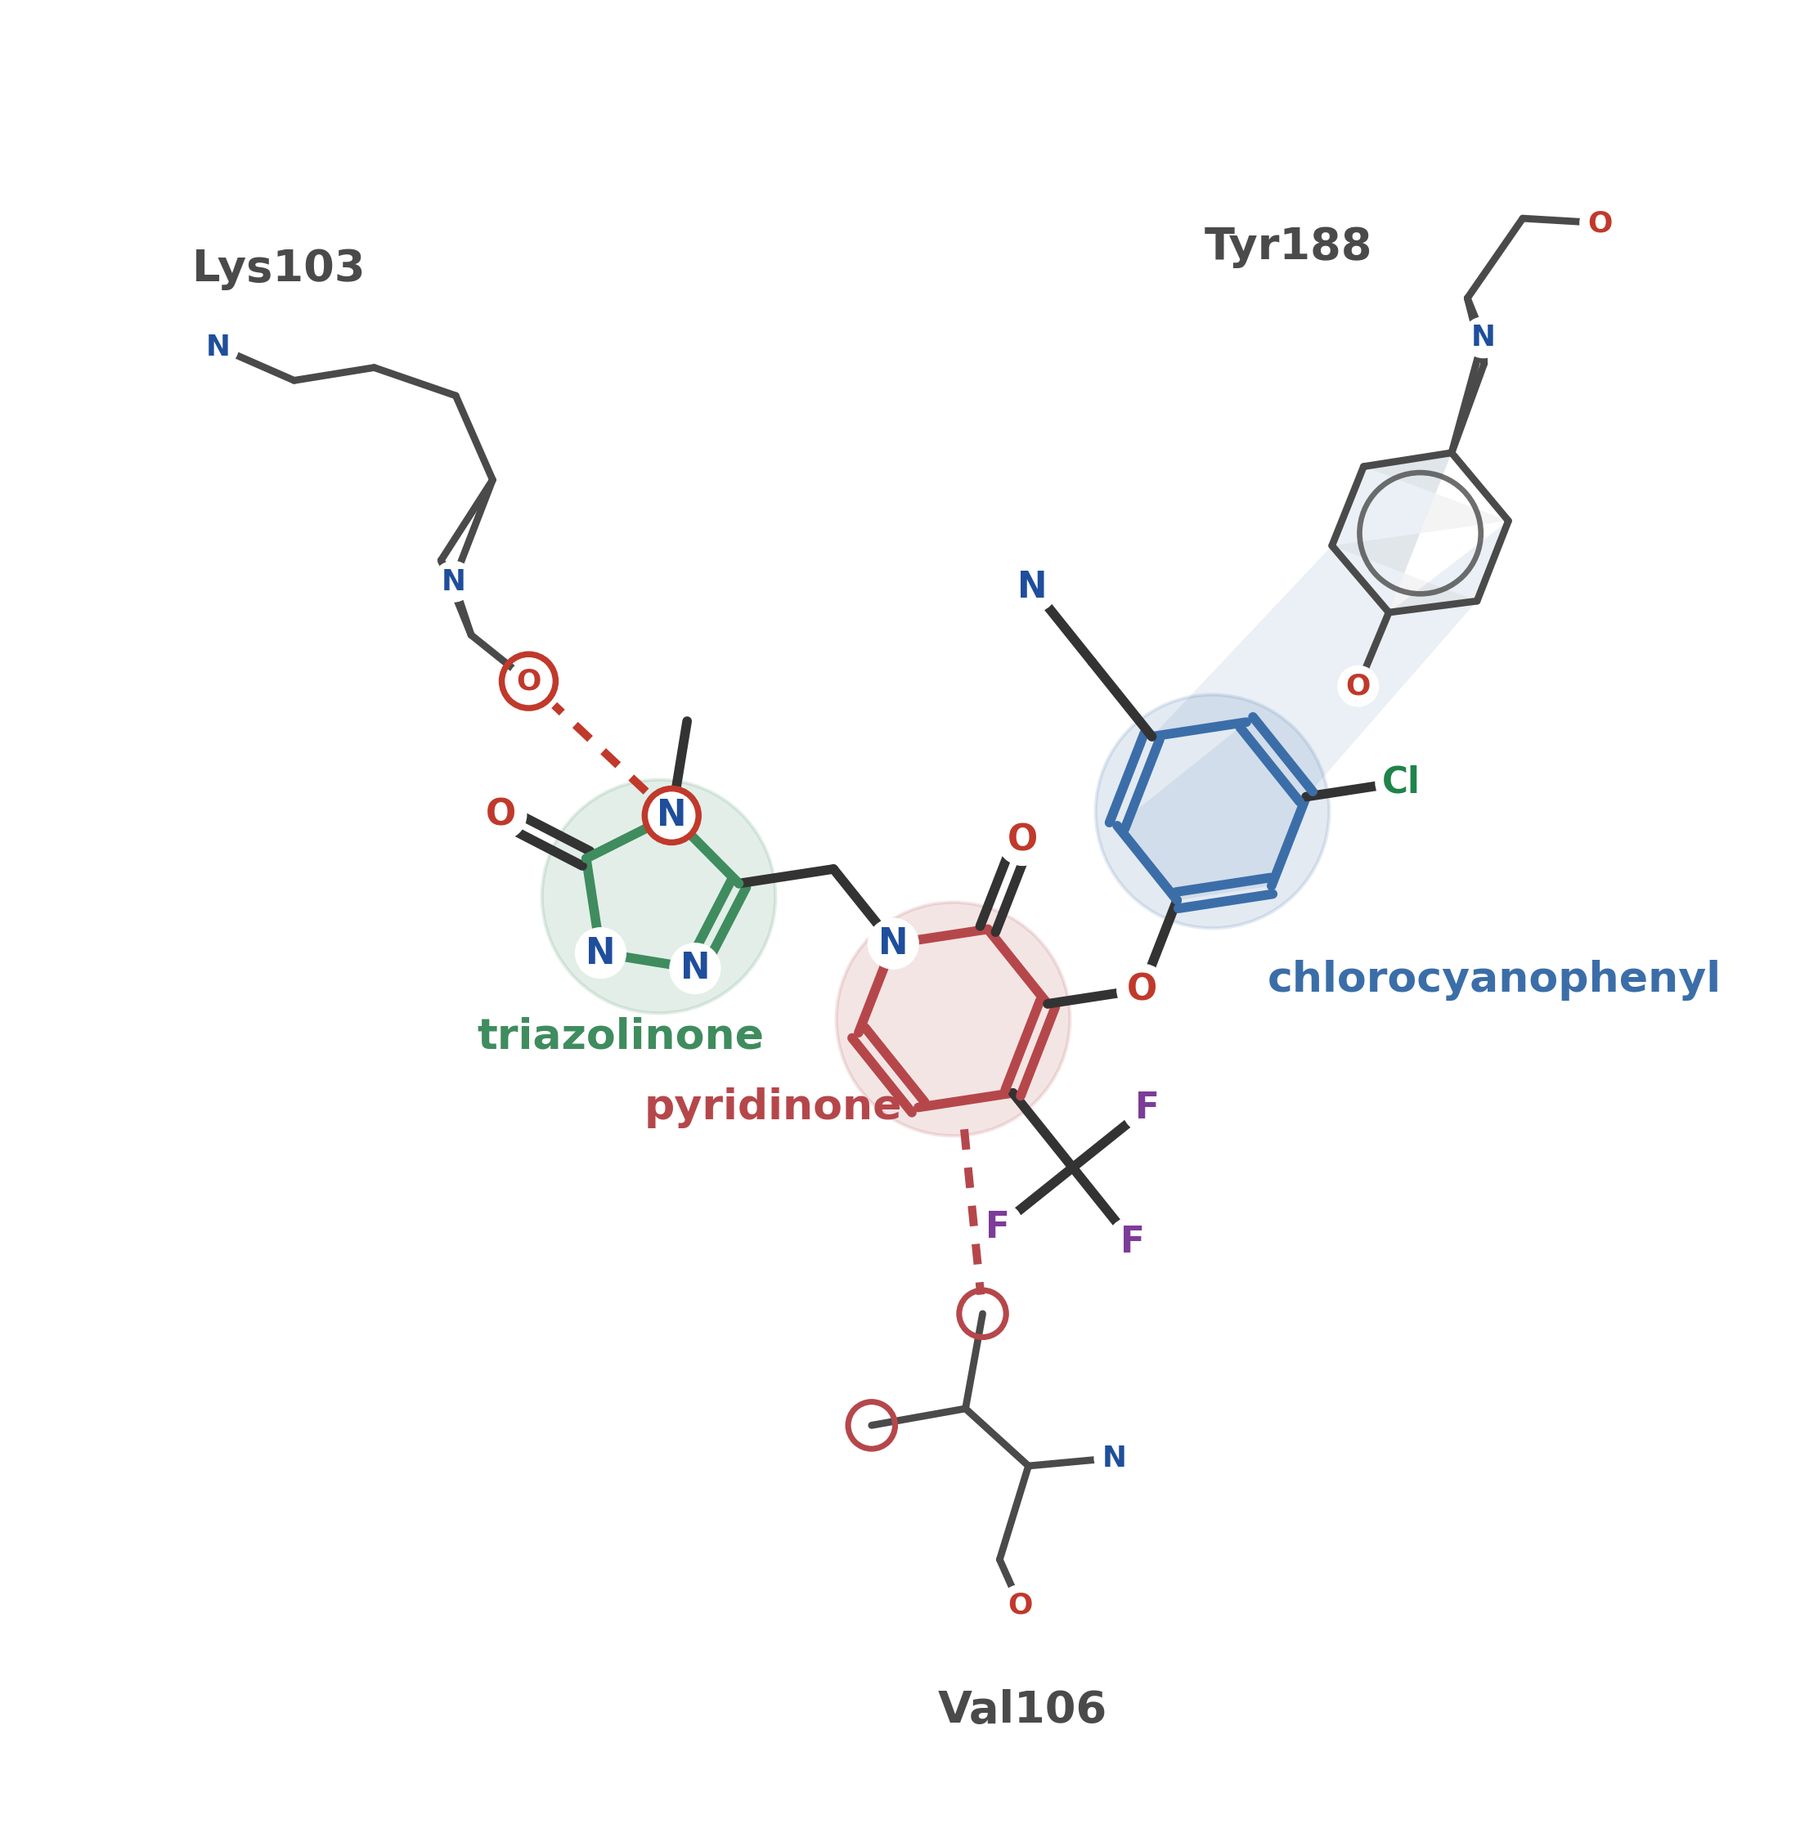
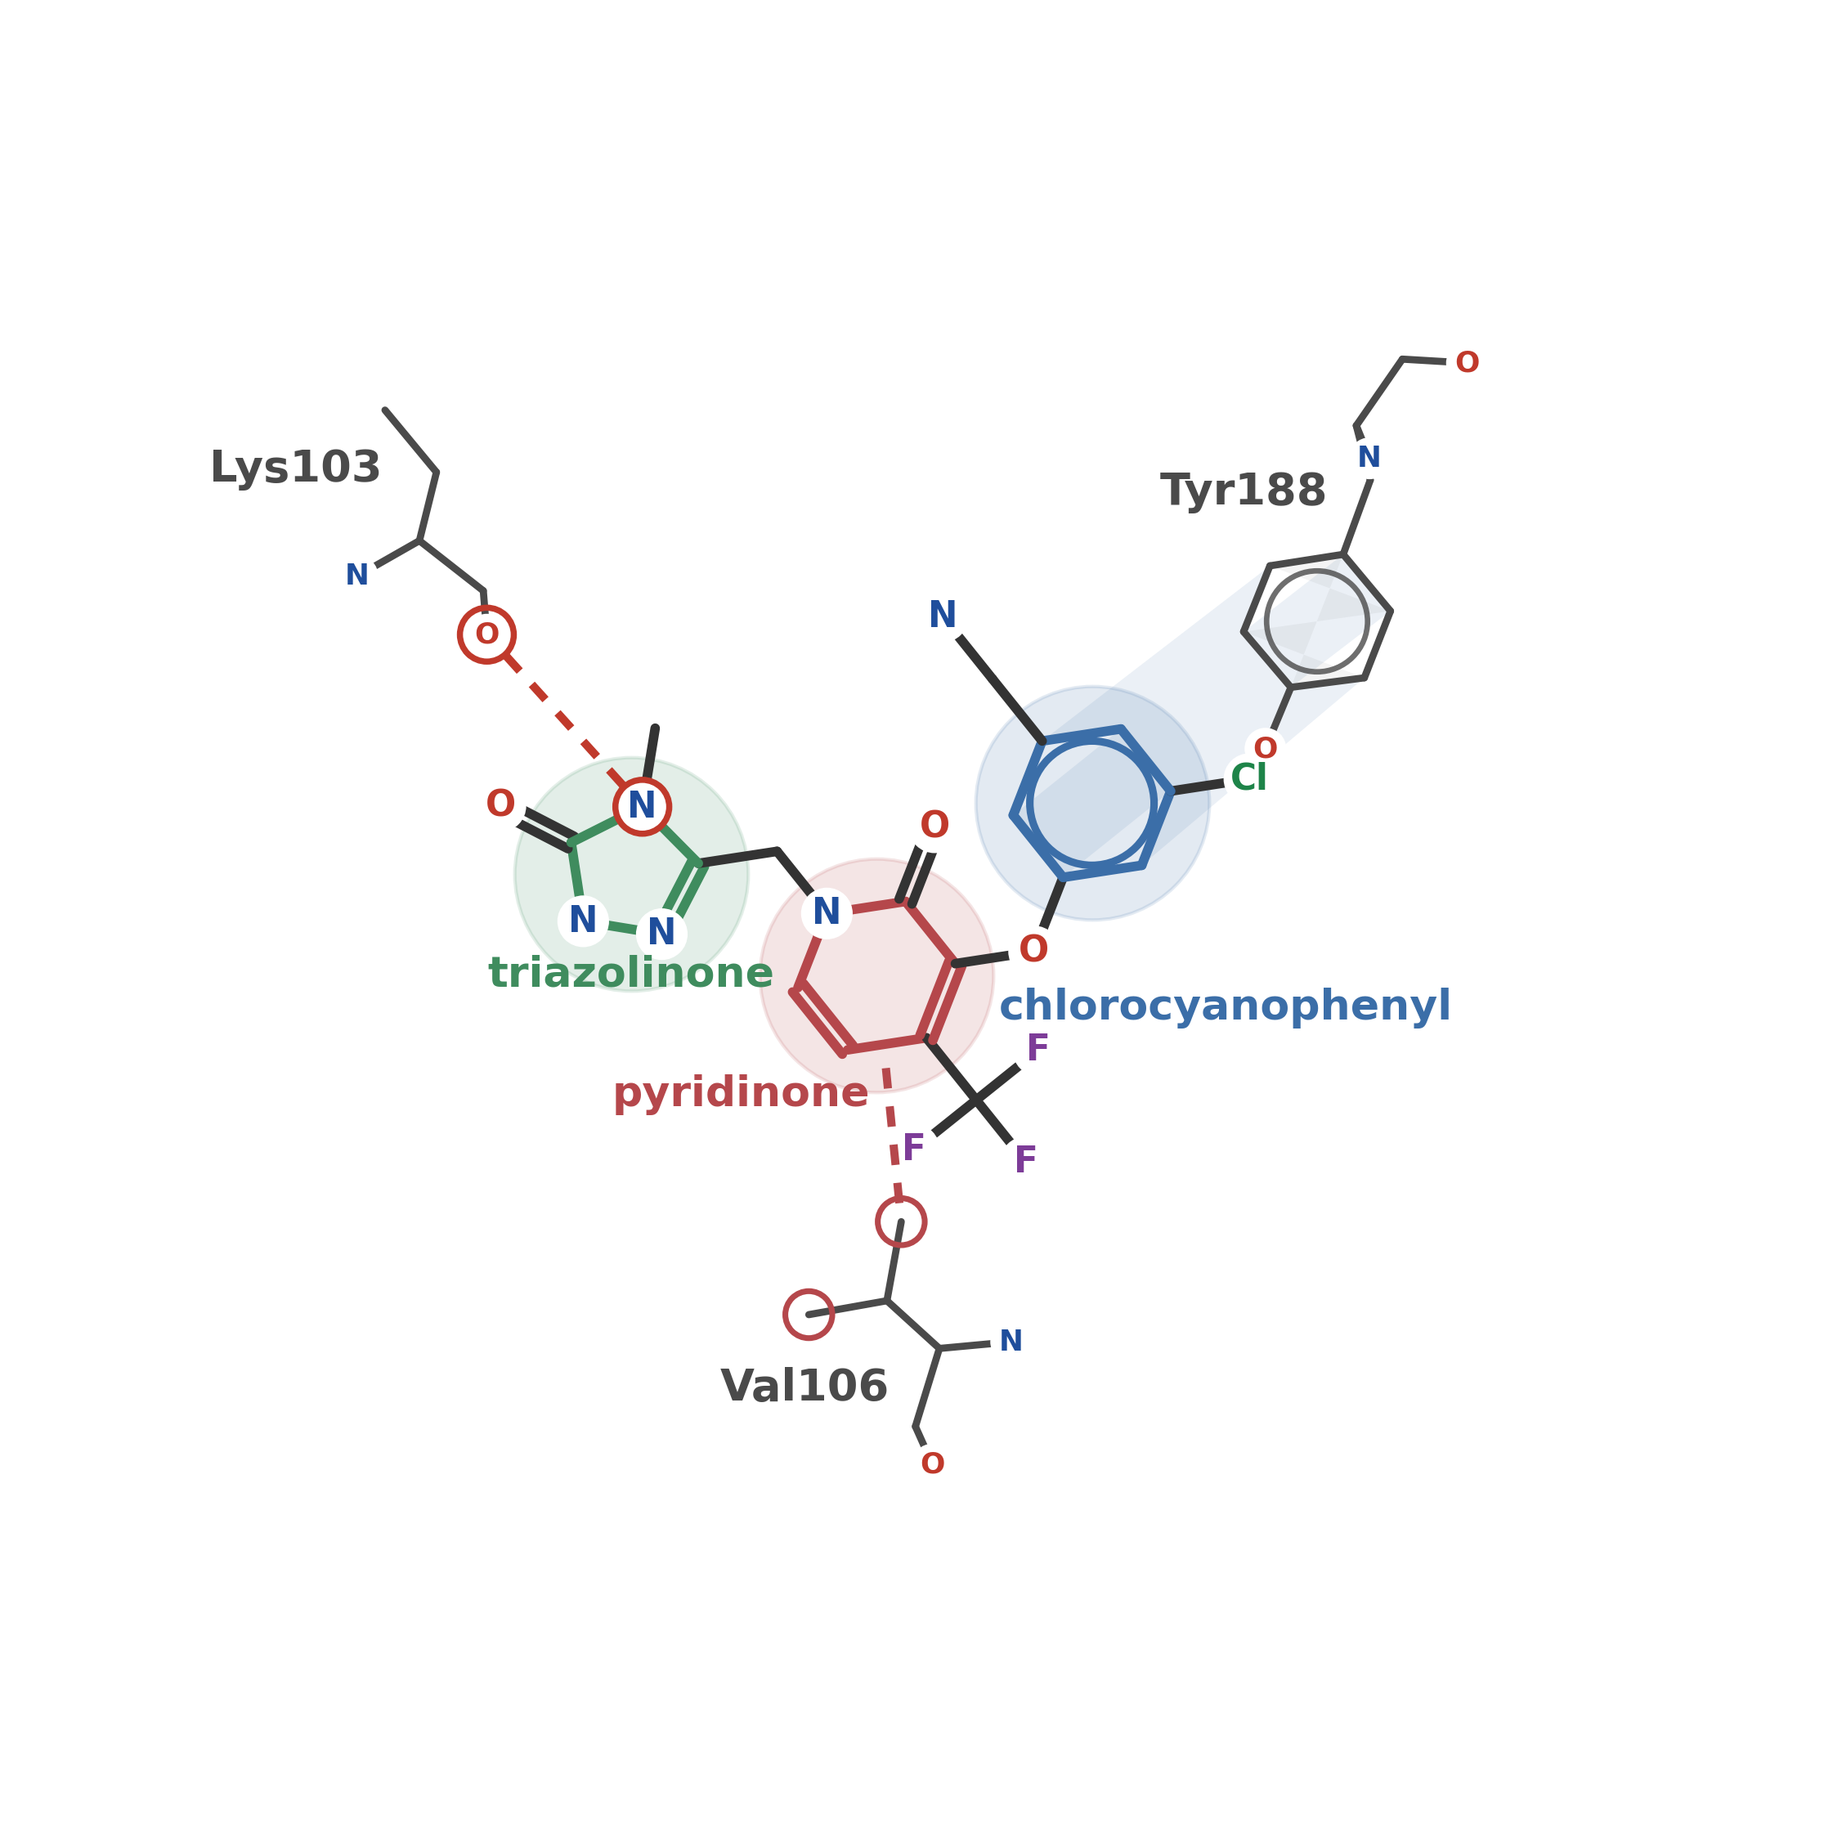
Figure 1B: bonds from 3D, labels placed by measured collision test
Two real bugs.

draw_group inferred bonds from the PROJECTED 2D coordinates, so atoms that
merely projected near each other were joined and real bonds that projected on
top of each other vanished. Tyr188 and Lys103 were visibly wrong as a result.
Bonds now come from the 3D coordinates and are passed in; supplying none is an
error rather than a silent fallback.

Labels were positioned by hand-tuned offsets that drifted onto bonds whenever
anything moved. There is now a LabelPlacer that measures each label's rendered
extent and walks it outward and around until it clears every atom, bond and
previously placed label, falling back to the least-colliding candidate. The
axes are frozen before any measurement -- autoscaling was still active while
extents were being taken, so the collision tests were run against a shifting
transform, which is why the first attempt changed nothing.

Also: the chlorocyanophenyl benzene is drawn with an aromatic circle rather
than lopsided Kekule bonds, Tyr188 sits slightly further right, and Lys103 is
truncated past CG -- the interaction is with its main chain, and the full side
chain folded over itself in projection.

diff --git a/src/analysis/cli/plot_dor_schematic.py b/src/analysis/cli/plot_dor_schematic.py
@@ -115,14 +115,113 @@ def face_on(P):
     return np.column_stack([(P - c) @ vt[0], (P - c) @ vt[1]])
 
 
+class LabelPlacer:
+    """Place text so it never overlaps an atom, a bond, or another label.
+
+    Hand-tuned label coordinates kept drifting onto bonds whenever anything else
+    moved. This measures each label's rendered extent, tests it against every
+    atom point, bond segment and previously placed label, and walks outward
+    along a preferred direction until it finds a clear spot.
+    """
+
+    def __init__(self, ax, fig):
+        self.ax, self.fig = ax, fig
+        self.points: list[np.ndarray] = []
+        self.segs: list[tuple[np.ndarray, np.ndarray]] = []
+        self.boxes: list[tuple[float, float, float, float]] = []
+
+    def add_atoms(self, P):
+        for q in np.atleast_2d(P):
+            self.points.append(np.asarray(q, dtype=float))
+
+    def add_bonds(self, P, pairs):
+        for i, j in pairs:
+            self.segs.append((np.asarray(P[i], float), np.asarray(P[j], float)))
+
+    @staticmethod
+    def _seg_box_hit(a, b, box, pad):
+        x0, y0, x1, y1 = box
+        x0, y0, x1, y1 = x0 - pad, y0 - pad, x1 + pad, y1 + pad
+        for t in np.linspace(0, 1, 24):
+            p = a + (b - a) * t
+            if x0 <= p[0] <= x1 and y0 <= p[1] <= y1:
+                return True
+        return False
+
+    def _extent(self, txt):
+        self.fig.canvas.draw()
+        bb = txt.get_window_extent(self.fig.canvas.get_renderer())
+        inv = self.ax.transData.inverted()
+        (x0, y0), (x1, y1) = inv.transform((bb.x0, bb.y0)), inv.transform((bb.x1, bb.y1))
+        return (min(x0, x1), min(y0, y1), max(x0, x1), max(y0, y1))
+
+    def _penalty(self, box, pad):
+        """How badly this position collides. 0 means clear."""
+        x0, y0, x1, y1 = box
+        pen = 0.0
+        for q in self.points:
+            if x0 - pad <= q[0] <= x1 + pad and y0 - pad <= q[1] <= y1 + pad:
+                pen += 1.0
+        for a, b in self.segs:
+            if self._seg_box_hit(a, b, box, pad):
+                pen += 1.0
+        for bx in self.boxes:
+            if not (x1 + pad < bx[0] or bx[2] < x0 - pad
+                    or y1 + pad < bx[1] or bx[3] < y0 - pad):
+                pen += 4.0        # overlapping another label is the worst case
+        return pen
+
+    def place(self, text, anchor, direction, *, pad=0.30, start=1.6, step=0.30,
+              limit=17.0, **kw):
+        """Walk outward and around until the label is clear.
+
+        Falls back to the least-colliding candidate rather than the first one:
+        with a molecule this dense some labels have no perfectly free position,
+        and picking the first tried put them straight on top of a bond.
+        """
+        d = np.asarray(direction, dtype=float)
+        d = d / (np.linalg.norm(d) + 1e-9)
+        anchor = np.asarray(anchor, dtype=float)
+        txt = self.ax.text(0, 0, text, ha="center", va="center", **kw)
+        best = (np.inf, None, None)
+        r = start
+        while r <= limit:
+            for sway in (0.0, 0.26, -0.26, 0.55, -0.55, 0.9, -0.9, 1.3, -1.3):
+                pos = anchor + (rot(sway) @ d) * r
+                txt.set_position(pos)
+                box = self._extent(txt)
+                pen = self._penalty(box, pad)
+                # prefer clear, then close to the anchor
+                score = pen * 1000.0 + r + abs(sway) * 1.5
+                if score < best[0]:
+                    best = (score, pos, box)
+                if pen == 0.0:
+                    txt.set_position(pos)
+                    self.boxes.append(box)
+                    return pos
+            r += step
+        txt.set_position(best[1])
+        self.boxes.append(best[2])
+        return best[1]
+
+
 def rot(theta):
     c, s = np.cos(theta), np.sin(theta)
     return np.array([[c, -s], [s, c]])
 
 
 def draw_group(ax, P2, elements, colour, lw, *, hetero=9.0, dot=170, zorder=3,
-               dbl=None, alpha=1.0):
-    for i, j in bonds_within(P2 if dbl is None else P2, 1.95 if dbl is None else 1.95):
+               bonds=None, alpha=1.0):
+    """Draw a group. `bonds` MUST come from the 3D coordinates.
+
+    Inferring them from the projected 2D positions (as an earlier version did)
+    invents bonds between atoms that merely project close together and drops
+    real ones that project on top of each other -- which produced visibly wrong
+    connectivity for Tyr188 and Lys103.
+    """
+    if bonds is None:
+        raise ValueError("bonds must be supplied from 3D coordinates")
+    for i, j in bonds:
         ax.plot(*zip(P2[i], P2[j]), color=colour, lw=lw, zorder=zorder,
                 solid_capstyle="round", alpha=alpha)
     for i, el in enumerate(elements):
@@ -188,14 +287,25 @@ def main() -> int:
 
     fig, ax = plt.subplots(figsize=(13.0, 9.4))
 
+    placer = LabelPlacer(ax, fig)
+    pending: list[tuple] = []
+    placer.add_atoms(D2)
+    placer.add_bonds(D2, [(b.GetBeginAtomIdx(), b.GetEndAtomIdx())
+                          for b in mol.GetBonds()])
     for m in set(rings2.values()):
         ax.scatter(*cent2[m], s=4700, color=MOIETY_COLOR[m], alpha=0.14, zorder=0)
+    # The chlorocyanophenyl ring is a plain benzene, so it is drawn with an
+    # inner circle rather than alternating Kekule bonds -- the alternating form
+    # renders lopsided at this size and reads badly next to the Tyr188 ring,
+    # which uses the same convention.
+    chl_ring_set = {k for k, v in rings2.items() if v == "chlorocyanophenyl"}
     for b in mol.GetBonds():
         i, j = b.GetBeginAtomIdx(), b.GetEndAtomIdx()
         mi, mj = rings2.get(i), rings2.get(j)
         col = MOIETY_COLOR[mi] if (mi and mi == mj) else "#333333"
         p, q = D2[i], D2[j]
-        if b.GetBondTypeAsDouble() == 2.0:
+        in_benzene = i in chl_ring_set and j in chl_ring_set
+        if b.GetBondTypeAsDouble() == 2.0 and not in_benzene:
             d = q - p
             n = np.array([-d[1], d[0]])
             n = n / (np.linalg.norm(n) + 1e-9) * 0.13
@@ -204,6 +314,12 @@ def main() -> int:
                         zorder=3, solid_capstyle="round")
         else:
             ax.plot(*zip(p, q), color=col, lw=2.8, zorder=3, solid_capstyle="round")
+    chl_pts0 = D2[sorted(chl_ring_set)]
+    chl_c0 = chl_pts0.mean(axis=0)
+    ax.add_patch(plt.Circle(chl_c0,
+                            0.60 * np.linalg.norm(chl_pts0[0] - chl_c0) * 1.30,
+                            fill=False, ec=MOIETY_COLOR["chlorocyanophenyl"],
+                            lw=2.2, zorder=4))
     for i, el in enumerate(d2_names):
         if el == "C":
             continue
@@ -212,9 +328,12 @@ def main() -> int:
                 fontweight="bold", zorder=5,
                 color=HETERO_COLOR.get(el.upper(), "#333"))
     for m in set(rings2.values()):
-        lx, ly, ha = MOIETY_LABEL_XY[m]
-        ax.text(lx, ly, m, ha=ha, va="center", fontsize=12.5,
-                fontweight="bold", color=MOIETY_COLOR[m], zorder=6)
+        lx, ly, _ = MOIETY_LABEL_XY[m]
+        anchor = cent2[m]
+        direction = np.array([lx, ly]) - anchor
+        pending.append((m, anchor, direction,
+                        dict(fontsize=12.5, fontweight="bold",
+                             color=MOIETY_COLOR[m], zorder=6)))
 
     # ---------- residues, each handled for what its interaction needs
     #
@@ -246,7 +365,7 @@ def main() -> int:
     v_t = F[ring_local[0]] - tyr_c
     v_c = chl_poly[0] - chl_c
     F = (F - tyr_c) @ rot(np.arctan2(v_c[1], v_c[0]) - np.arctan2(v_t[1], v_t[0])).T
-    STACK_DIR = np.array([0.60, 0.80])
+    STACK_DIR = np.array([0.78, 0.63])
     STACK_DIR = STACK_DIR / np.linalg.norm(STACK_DIR)
     STACK_OFF = 5.45
     F = F + chl_c + STACK_DIR * STACK_OFF
@@ -259,14 +378,18 @@ def main() -> int:
     order_h = np.argsort(np.arctan2(*(hull - hull.mean(axis=0)).T[::-1]))
     ax.fill(*hull[order_h].T, color=MOIETY_COLOR["chlorocyanophenyl"], alpha=0.10,
             zorder=1, linewidth=0)
-    draw_group(ax, F, aels, RESIDUE_COLOR, 2.1, hetero=8.6, dot=150, zorder=3)
+    bonds3 = bonds_within(P, 1.95)
+    draw_group(ax, F, aels, RESIDUE_COLOR, 2.1, hetero=8.6, dot=150, zorder=3,
+               bonds=bonds3)
+    placer.add_atoms(F)
+    placer.add_bonds(F, bonds3)
     ax.fill(*tyr_ring2.T, color=RESIDUE_COLOR, alpha=0.06, zorder=2, linewidth=0)
     ax.add_patch(plt.Circle(tyr_c2, 0.52 * np.linalg.norm(tyr_ring2[0] - tyr_c2) * 1.35,
                             fill=False, ec=RESIDUE_COLOR, lw=1.6, alpha=0.8, zorder=4))
     perp = np.array([-STACK_DIR[1], STACK_DIR[0]])
-    lab = tyr_c2 + STACK_DIR * 2.35 + perp * 4.35
-    ax.text(lab[0], lab[1], "Tyr188", ha="center", va="center", fontsize=13,
-            fontweight="bold", color=RESIDUE_COLOR, zorder=7)
+    pending.append(("Tyr188", tyr_c2, STACK_DIR * 0.45 + perp * 1.0,
+                    dict(fontsize=13, fontweight="bold", color=RESIDUE_COLOR,
+                         zorder=7)))
     print(f"{'Tyr188':9s}{'ring / ring':22s}{'3.78 A, 6.4 deg':>22s}")
 
     # ===== Val106: line must land on the gamma-methyl that alanine lacks =====
@@ -286,7 +409,11 @@ def main() -> int:
     F = (F - F.mean(axis=0)) @ rot(np.arctan2(-want[1], -want[0])
                                    - np.arctan2(v[1], v[0])).T
     F = F + pyr_c + want * 7.0
-    draw_group(ax, F, aels, RESIDUE_COLOR, 2.1, hetero=8.6, dot=150, zorder=3)
+    bonds3 = bonds_within(P, 1.95)
+    draw_group(ax, F, aels, RESIDUE_COLOR, 2.1, hetero=8.6, dot=150, zorder=3,
+               bonds=bonds3)
+    placer.add_atoms(F)
+    placer.add_bonds(F, bonds3)
     a_pt = F[ri]
     u = (a_pt - pyr_c) / np.linalg.norm(a_pt - pyr_c)
     ax.plot(*zip(pyr_c + u * 1.75, a_pt - u * 0.30), color=MOIETY_COLOR["pyridinone"],
@@ -295,14 +422,21 @@ def main() -> int:
         ax.scatter(*F[g], s=190, facecolor="none",
                    edgecolor=MOIETY_COLOR["pyridinone"], lw=1.7, zorder=6)
     ax.text(F[gammas[0]][0], F[gammas[0]][1], "", zorder=6)
-    lab = F.mean(axis=0) + want * 3.9
-    ax.text(lab[0], lab[1], "Val106", ha="center", va="center", fontsize=13,
-            fontweight="bold", color=RESIDUE_COLOR, zorder=7)
+    pending.append(("Val106", F.mean(axis=0), want,
+                    dict(fontsize=13, fontweight="bold", color=RESIDUE_COLOR,
+                         zorder=7)))
     print(f"{'Val106':9s}{anames[ri] + ' / pyridinone':22s}"
           f"{f'{per_atom[ri]:.2f} A':>22s}")
 
     # ===== Lys103: main-chain C=O accepts from the triazolinone N-H ==========
     ai, anames, aels = residue_atoms(103)
+    # Truncate past CB. The whole point of this interaction is that DOR binds
+    # the residue-103 MAIN CHAIN, so the lysine side chain carries no
+    # information here -- and drawn in full it folds back over itself in 2D.
+    keep = [k for k, n in enumerate(anames) if n in ("N", "CA", "C", "O", "CB", "CG")]
+    ai = [ai[k] for k in keep]
+    anames = [anames[k] for k in keep]
+    aels = [aels[k] for k in keep]
     P = X[ai]
     tri_idx = [k for k, v in rings2.items() if v == "triazolinone"]
     tri_c = D2[tri_idx].mean(axis=0)
@@ -313,7 +447,11 @@ def main() -> int:
     F = (F - F.mean(axis=0)) @ rot(np.arctan2(-want[1], -want[0])
                                    - np.arctan2(v[1], v[0])).T
     F = F + tri_c + want * 7.4
-    draw_group(ax, F, aels, RESIDUE_COLOR, 2.1, hetero=8.6, dot=150, zorder=3)
+    bonds3 = bonds_within(P, 1.95)
+    draw_group(ax, F, aels, RESIDUE_COLOR, 2.1, hetero=8.6, dot=150, zorder=3,
+               bonds=bonds3)
+    placer.add_atoms(F)
+    placer.add_bonds(F, bonds3)
     # the donor nitrogen as drawn: the triazolinone ring N nearest the acceptor
     don2 = None
     tri3 = [i for i, v in moi3.items() if v == "triazolinone"]
@@ -330,14 +468,28 @@ def main() -> int:
     for pt in (p_don, p_acc):
         ax.scatter(*pt, s=250, facecolor="none", edgecolor="#c0392b", lw=1.8,
                    zorder=6)
-    lab = F.mean(axis=0) + want * 4.1
-    ax.text(lab[0], lab[1], "Lys103", ha="center", va="center", fontsize=13,
-            fontweight="bold", color=RESIDUE_COLOR, zorder=7)
+    pending.append(("Lys103", F.mean(axis=0), want,
+                    dict(fontsize=13, fontweight="bold", color=RESIDUE_COLOR,
+                         zorder=7)))
     print(f"{'Lys103':9s}{'O (main chain) / N4x':22s}{'2.90 A':>22s}")
 
+    # Freeze the axes BEFORE measuring any label. Autoscaling was still active
+    # while extents were being measured, so every added text shifted the
+    # data<->pixel transform and the collision tests were done against stale
+    # boxes -- which is why labels kept landing on bonds.
+    allpts = np.vstack(placer.points)
+    lo, hi = allpts.min(axis=0), allpts.max(axis=0)
+    span = (hi - lo).max()
+    mid = (hi + lo) / 2
+    half = span * 0.5 + span * 0.30
+    ax.set_xlim(mid[0] - half, mid[0] + half)
+    ax.set_ylim(mid[1] - half, mid[1] + half)
     ax.set_aspect("equal")
     ax.axis("off")
-    ax.margins(0.14)
+    ax.autoscale(False)
+
+    for text, anchor, direction, kw in pending:
+        placer.place(text, anchor, direction, **kw)
     args.output.parent.mkdir(parents=True, exist_ok=True)
     fig.savefig(args.output, bbox_inches="tight")
     fig.savefig(args.output.with_suffix(".png"), dpi=300, bbox_inches="tight")
